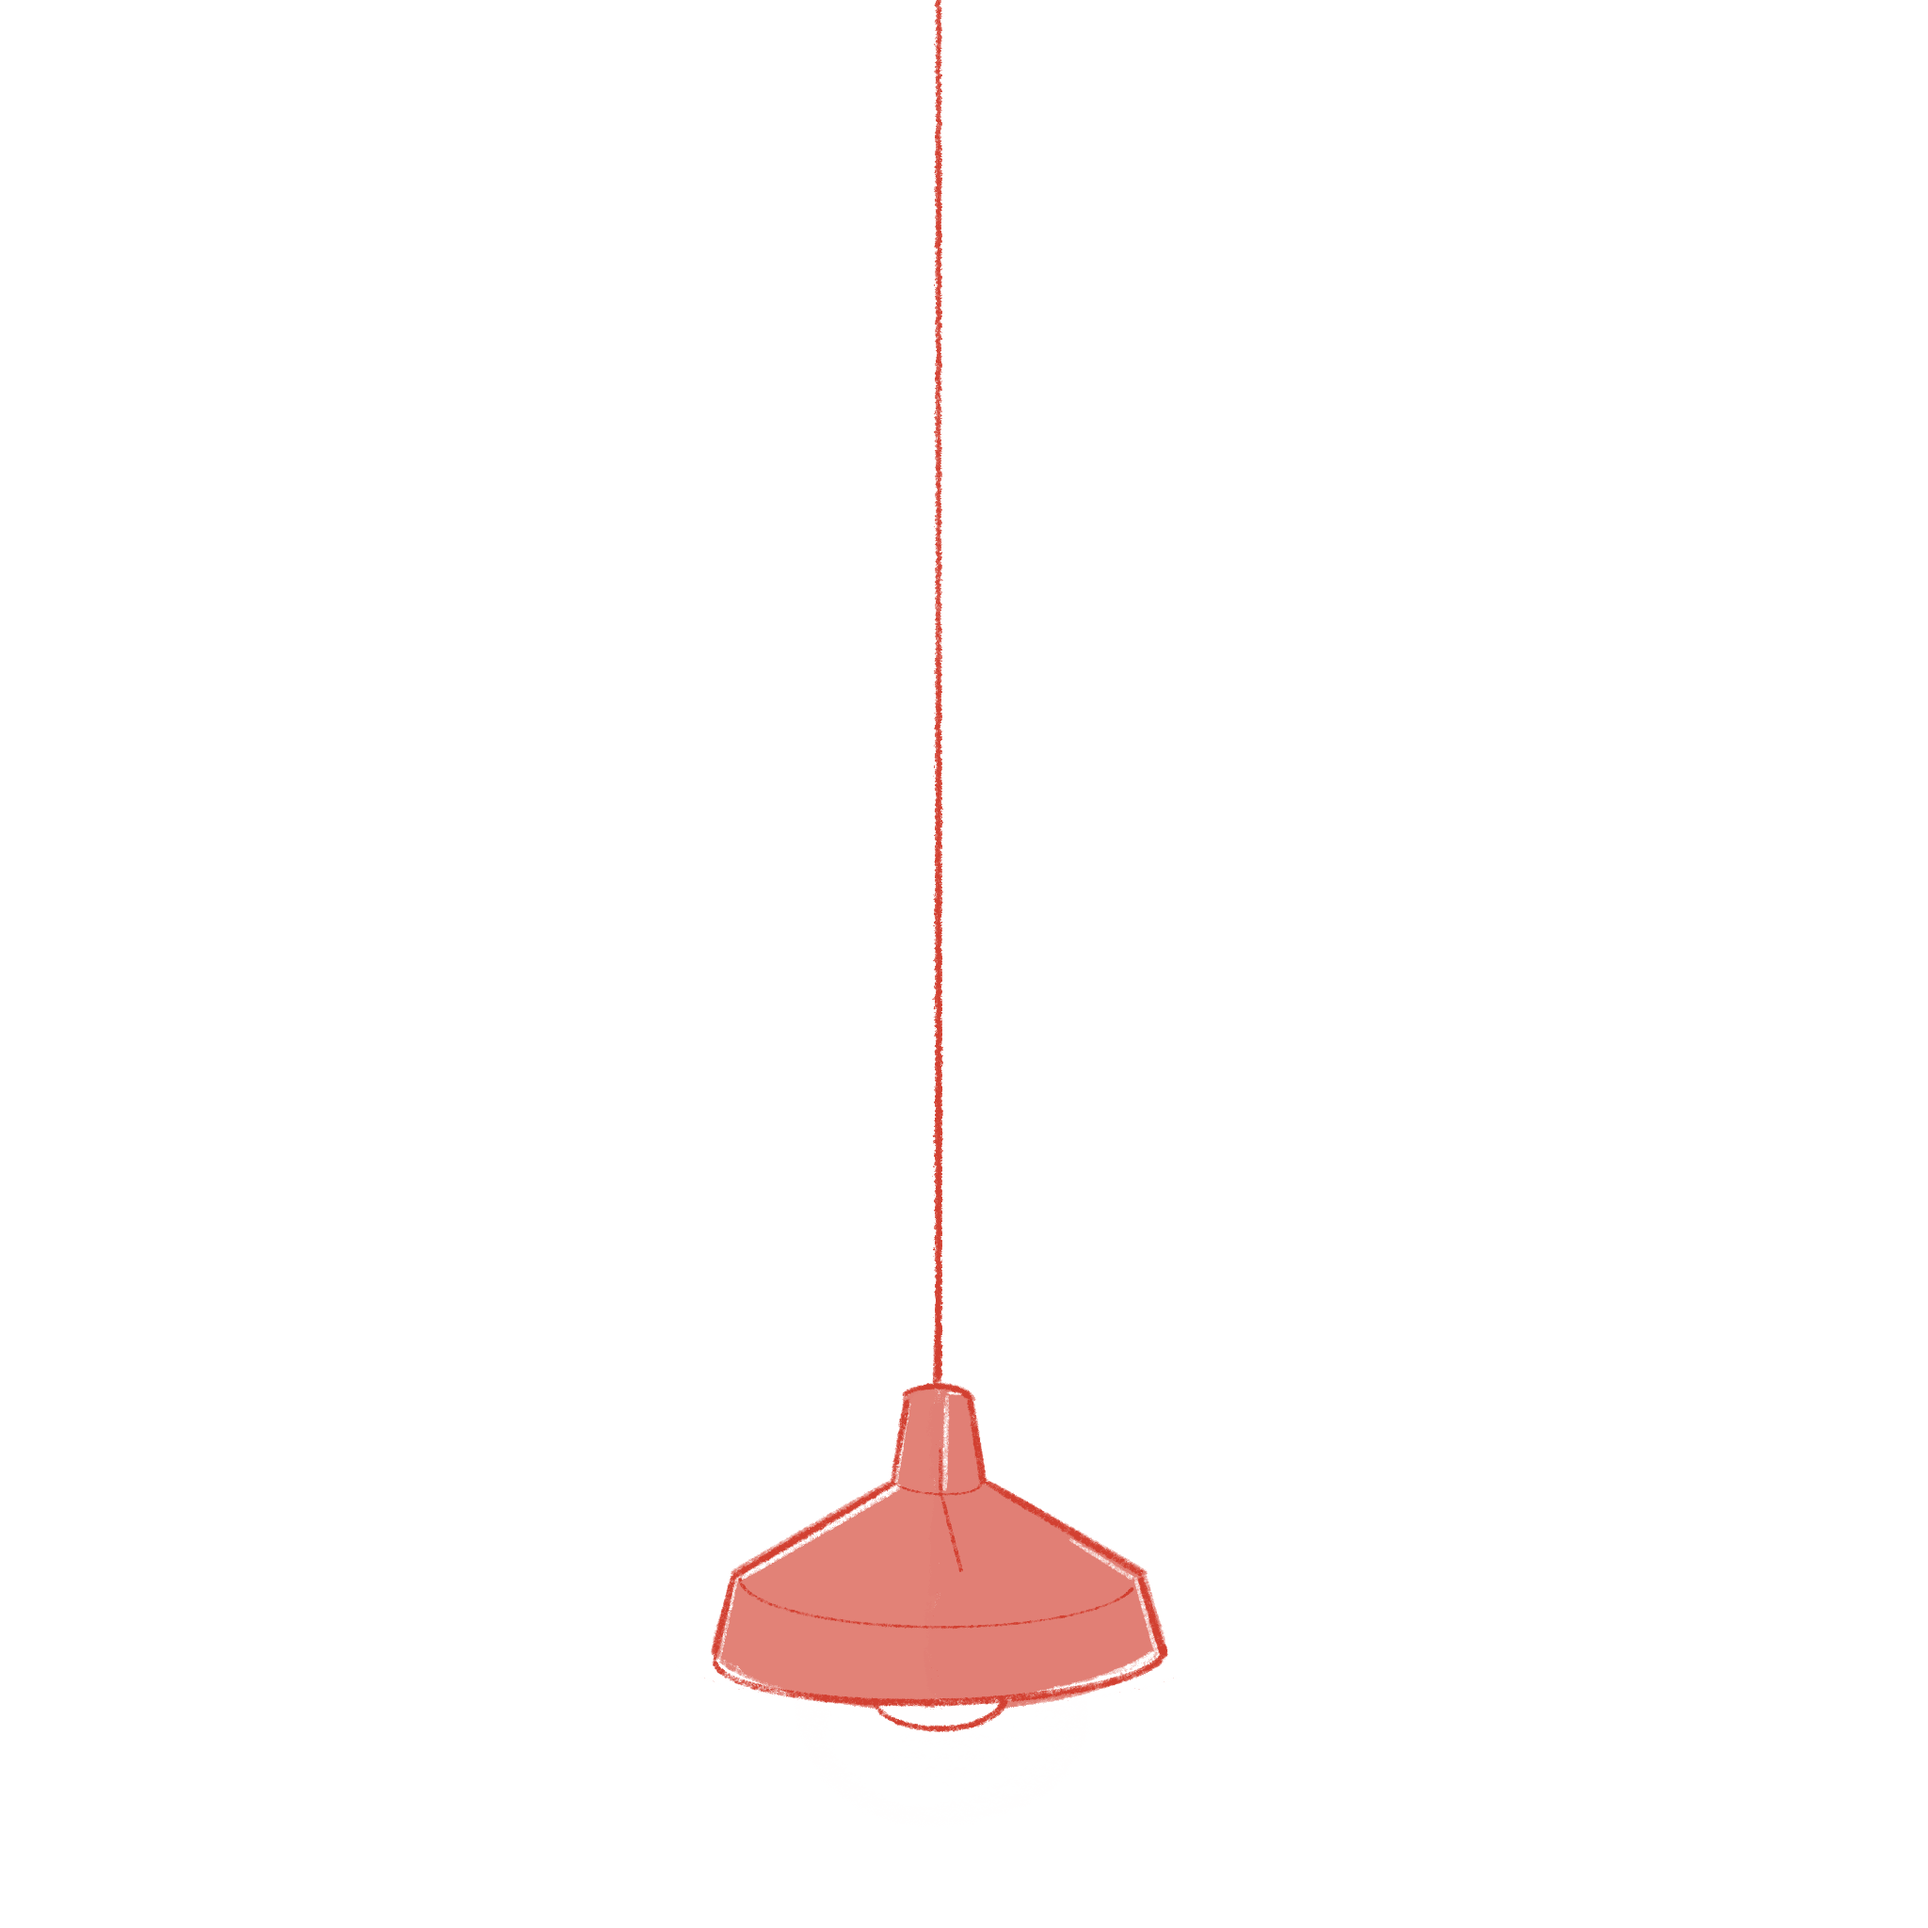
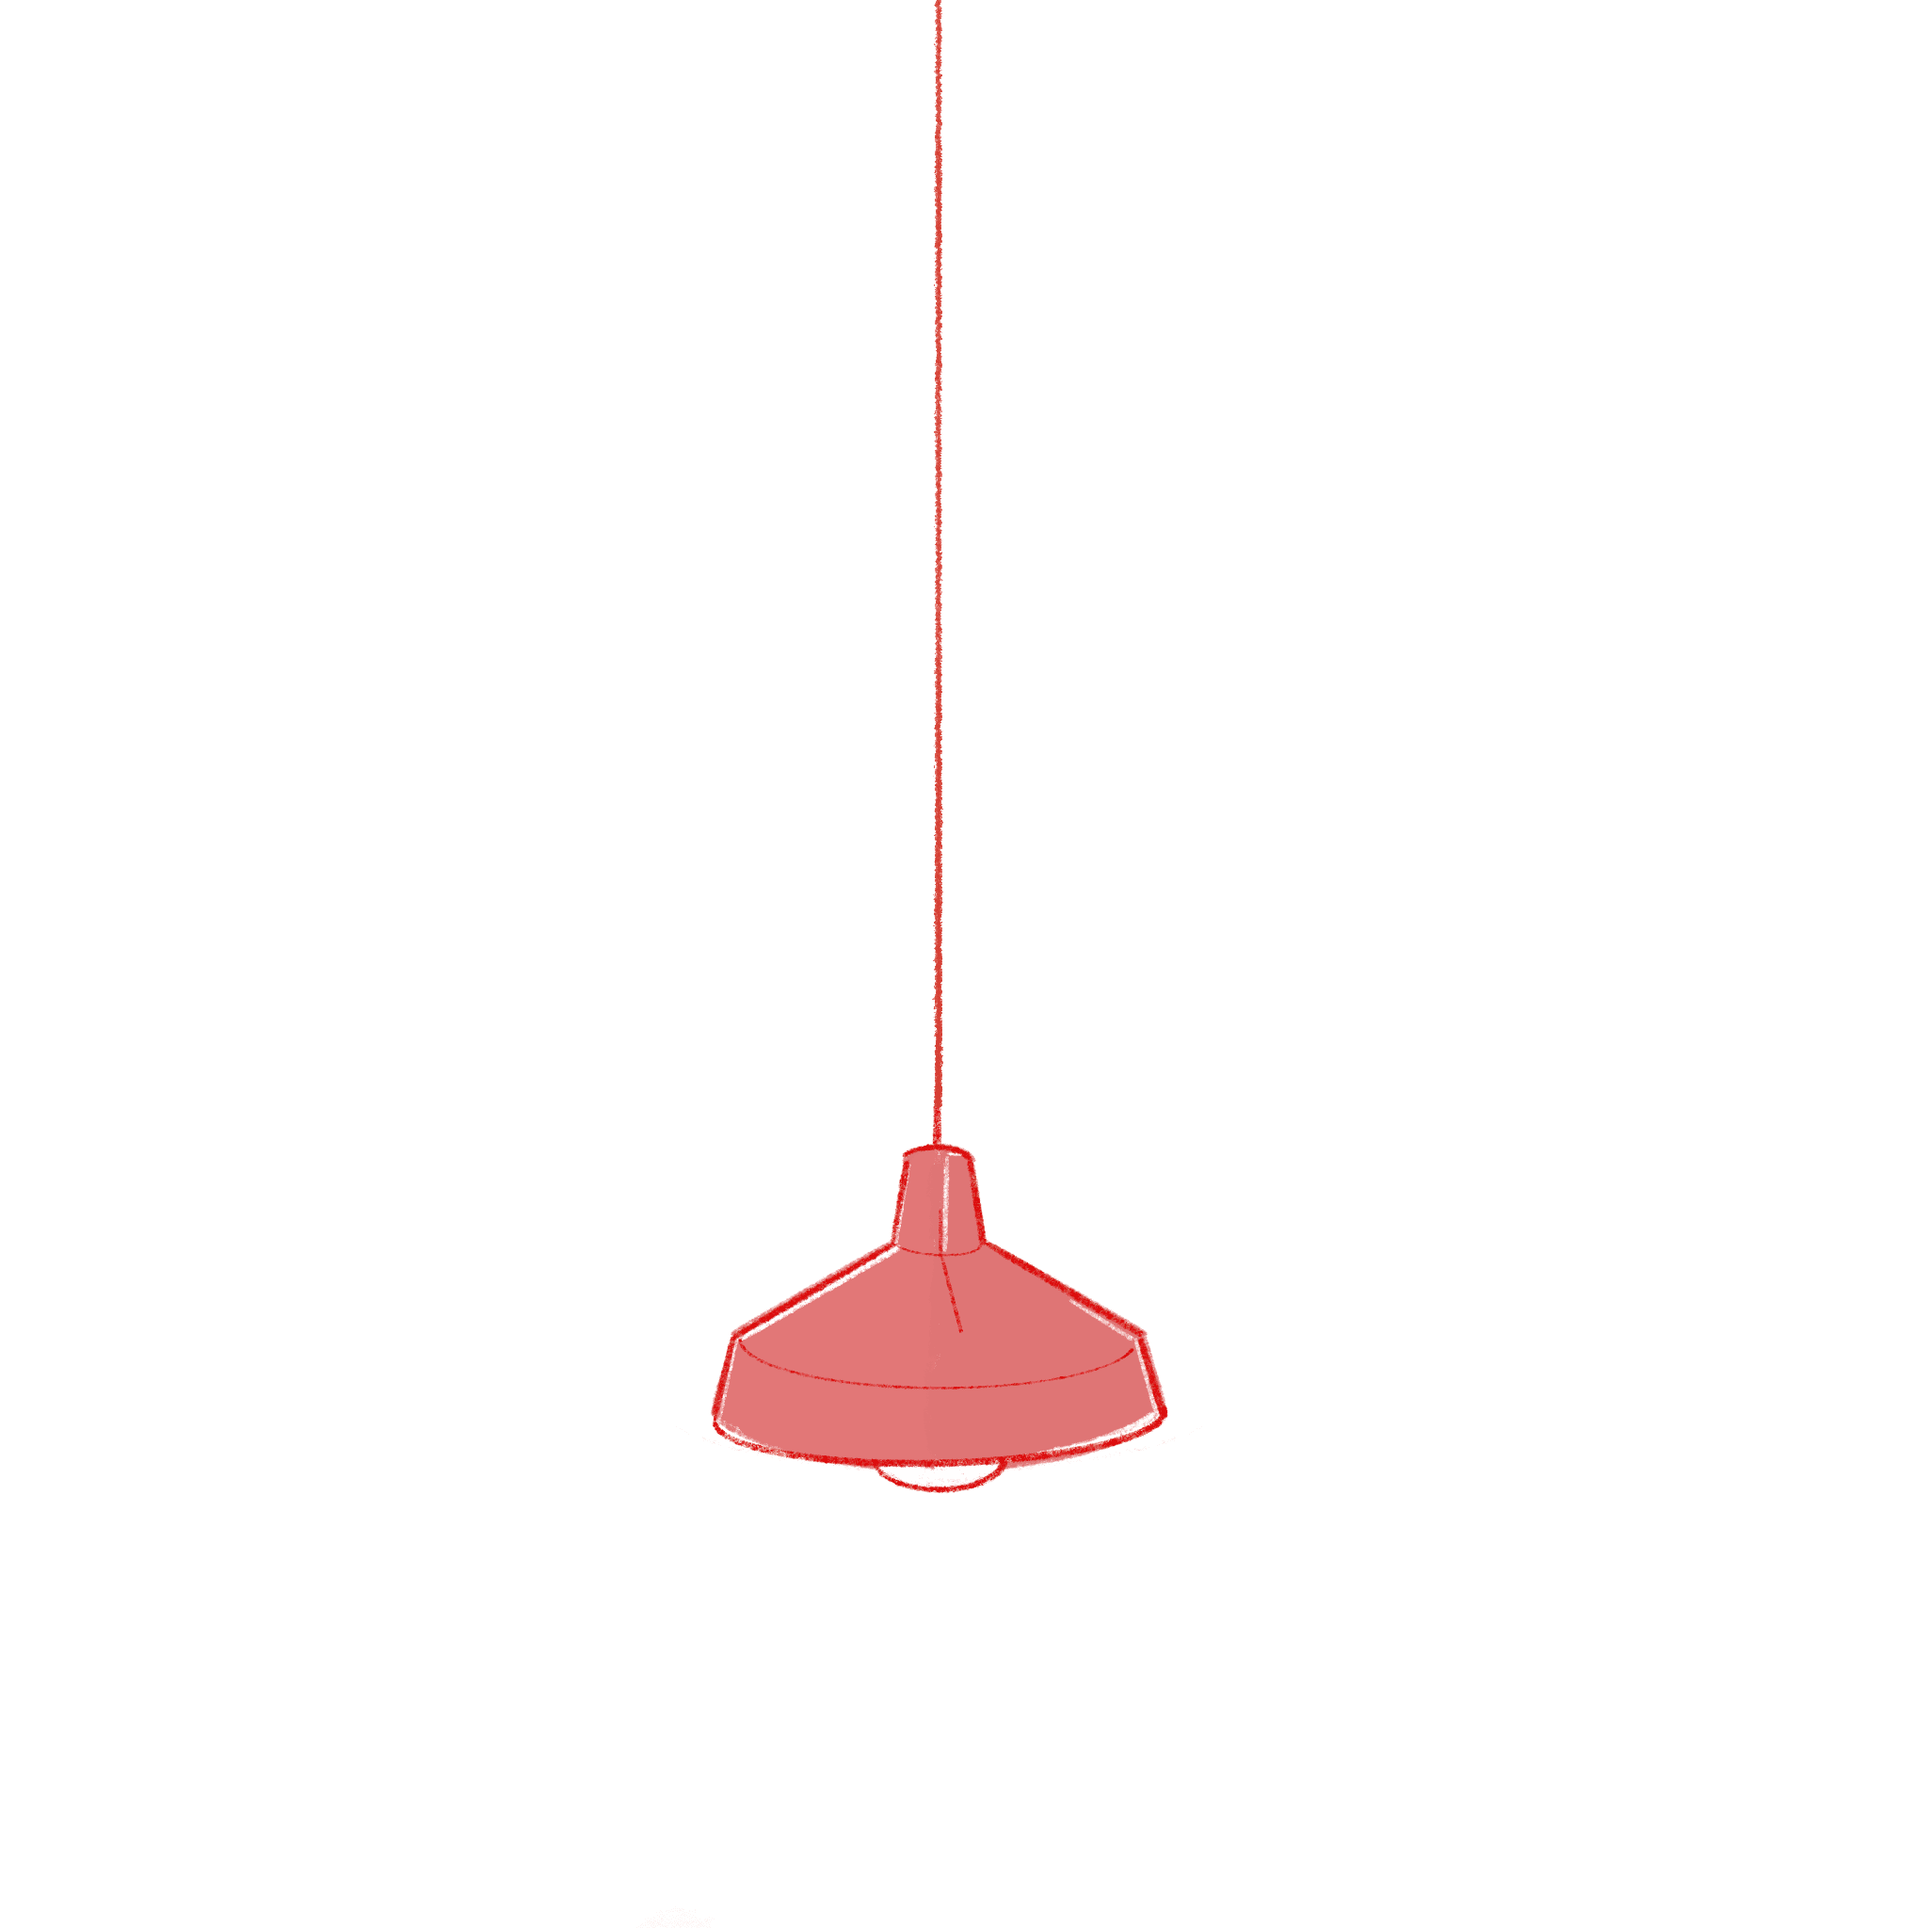
so far

Changed region(s): [[0.3438, 0.5938, 0.625, 0.9062]]

diff --git a/pages/about/index.js b/pages/about/index.js
@@ -1,6 +1,7 @@
 import React, { useEffect } from "react";
 import Head from 'next/head'
 import Script from 'next/script'
+import { ScrollTrigger } from 'gsap/dist/ScrollTrigger';
 import { gsap } from "gsap";
 import styles from '../../styles/Home.module.css'
 import { motion, useScroll, useSpring } from "framer-motion";
@@ -12,23 +13,17 @@ export default function About() {
   const { scrollYProgress } = useScroll();
   const setAnimation = () => {
     gsap.to('#lamp', {
-        // scale: () => `1.5`,
-        y: () => `-34.7222222222vw`,
-        // alpha: () => `0`,
-        // ease: "power1.out",
+        y: () => window.innerWidth * -.297222,
         scrollTrigger: {
           trigger: '.container',
           start: `0`, 
-          end: `10%`,
+          end: `20%`,
           scrub: .5,
           invalidateOnRefresh: true
         }
       });
     gsap.to('#bg', {
-        // scale: () => `1.5`,
-        // y: () => `-34.7222222222vw`,
         alpha: () => `1`,
-        // ease: "power1.out",
         scrollTrigger: {
           trigger: '.container',
           start: `5%`, 
@@ -37,24 +32,28 @@ export default function About() {
           invalidateOnRefresh: true
         }
       });
-    gsap.to('#team', {
-        // scale: () => `1.5`,
-        y: () => `0`,
+    gsap.to('#light', {
         alpha: () => `1`,
-        // ease: "power1.out",
         scrollTrigger: {
           trigger: '.container',
           start: `25%`, 
+          end: `30%`,
+          scrub: .5,
+          invalidateOnRefresh: true
+        }
+      });
+    gsap.to('#team', {
+        y: () => `0`,
+        alpha: () => `1`,
+        scrollTrigger: {
+          trigger: '.container',
+          start: `30%`, 
           end: `35%`,
           scrub: .5,
           invalidateOnRefresh: true
         }
       });
     gsap.to('#container', {
-        // scale: () => `1.5`,
-        // y: () => `-34.7222222222vw`,
-        // alpha: () => `0`,
-        // ease: "power1.out",
         scrollTrigger: {
           trigger: '.container',
           start: `0`, 
@@ -72,6 +71,10 @@ export default function About() {
     });
     useEffect(() => {
         setAnimation()
+        window.onresize = () => {
+            ScrollTrigger.refresh(true)
+            setAnimation()
+          }
         console.log('about loaded')
     }, [])
   return (
@@ -115,6 +118,7 @@ export default function About() {
                         </div>
                         <div className="lamp" id="lamp">
     					   	<img width="" height="" src="/img/common/lamp.png" alt="" />
+    					   	<img id="light" width="" height="" src="/img/common/light.png" alt="" />
                         </div>
                         <div className="team" id="team">
     					   	<img width="" height="" src="/img/common/team.png" alt="" />

diff --git a/styles/scss/style.scss b/styles/scss/style.scss
@@ -10,7 +10,7 @@
 }
 
 * {
-  cursor:none;
+  cursor:none !important;
 }
 
 // a {
@@ -38,7 +38,7 @@
   @include center();
   position: fixed;
   transform: translate3d(-50%, -50%, 0) scale(0);
-  width: vwPc(200);
+  width: vwPc(400);
   z-index: 11;
 }
 .privacy-screen {
@@ -1881,19 +1881,22 @@ body {
                 height: 100%;
                 width: 100%;
                 clip-path: url(#logo);
+                display: none;
               }
               svg {
+                // opacity: 0;
+                display: block;
                 // visibility: hidden;
               }
               path {
                 // fill: $red;
               }
-              span,
-              img {
-                position: relative !important;
-                width: 100% !important;
-                height: unset !important;
-              }
+              // span,
+              // img {
+              //   position: relative !important;
+              //   width: 100% !important;
+              //   height: unset !important;
+              // }
             }
             .mix-text.vertical {
               // bottom: vwPc(60);
@@ -2032,9 +2035,19 @@ body {
                 &.lamp {
                   // top: vwPc(-500);
                   top: 0;
-                  transform: translate3d(0, vwPc(-800), 0);
+                  transform: translate3d(0, vwPc(-700), 0);
                   left: 0;
                   z-index: 1;
+                  img {
+                    &#light {
+                      position: absolute;
+                      top: 0;
+                      left: 0;
+                      width: 100%;
+                      opacity: 0;
+                      z-index: -1;
+                    }
+                  }
                 }
                 &.bg {
                   opacity: 0;

diff --git a/pages/index.js b/pages/index.js
@@ -10,6 +10,7 @@ import WorkTogether from '../components/work-together'
 import Arrow from '../components/svg/arrow'
 import Slogan from '../components/svg/slogan'
 import ClipLogo from '../components/svg/clip-logo'
+import Logo from '../components/svg/logo'
 import axios from "axios"
 import Content from '../components/content'
 import styles from '../styles/Home.module.css'
@@ -304,8 +305,9 @@ function Home(props) {
                   {/* <h1 id="top-logo" className="logo fade" data-start="0" data-end="10%" ref={logoRef}> */}
                   <h1 id="top-logo" className="logo absolute">
                     <div className="parallax" data-start="0" data-end="10%" ref={logoRef} data-amount=".15">
-                      <ClipLogo color="bg-red fill" />
-                      <img src="/img/common/sample.png" alt="" />
+                      <Logo color="bg-red fill" />
+                      {/* <ClipLogo color="bg-red fill" /> */}
+                      {/* <img src="/img/common/sample.png" alt="" /> */}
                     </div>
                   </h1>
                   <div className="mix-text red vertical absolute scroll-trigger parallax" data-start="0%" data-end="25%" data-amount=".1" data-target="works">

diff --git a/pages/_app.js b/pages/_app.js
@@ -17,7 +17,6 @@ const routes = [
 function MyApp({ Component, pageProps }) {
   const router = useRouter();
   const myRef = useRef(null);
-  let curX = 0, curY = 0, x = 0, y = 0;
   // const pathname = router.asPath;
 
   const initLenis = () => {
@@ -51,7 +50,7 @@ function MyApp({ Component, pageProps }) {
       var ball = document.querySelector("#cursor");
       var pos = { x: window.innerWidth / 2, y: window.innerHeight / 2 };
       var mouse = { x: pos.x, y: pos.y };
-      var speed = 0.2;
+      var speed = 0.5;
           
       var fpms = 60 / 1000;
           
@@ -62,6 +61,10 @@ function MyApp({ Component, pageProps }) {
         mouse.x = e.x;
         mouse.y = e.y;  
       });
+
+      window.onresize = () => {
+        ScrollTrigger.refresh();
+      }
       
       gsap.ticker.add((time, deltaTime) => {
         

diff --git a/components/content.js b/components/content.js
@@ -39,8 +39,8 @@ const routes = [
   { path: '/about', name: 'About', Element: '' },
   { path: '/contact', name: 'Contact', Element: '' },
 ]
-// const ease = [0.37, 0, 0.63, 1];
-const ease = [.69,-0.01,.41,.99];
+const ease = [0.37, 0, 0.63, 1];
+// const ease = [.69,-0.01,.41,.99];
   const waveAnimation = {
     key: "wave",
     initial: {
